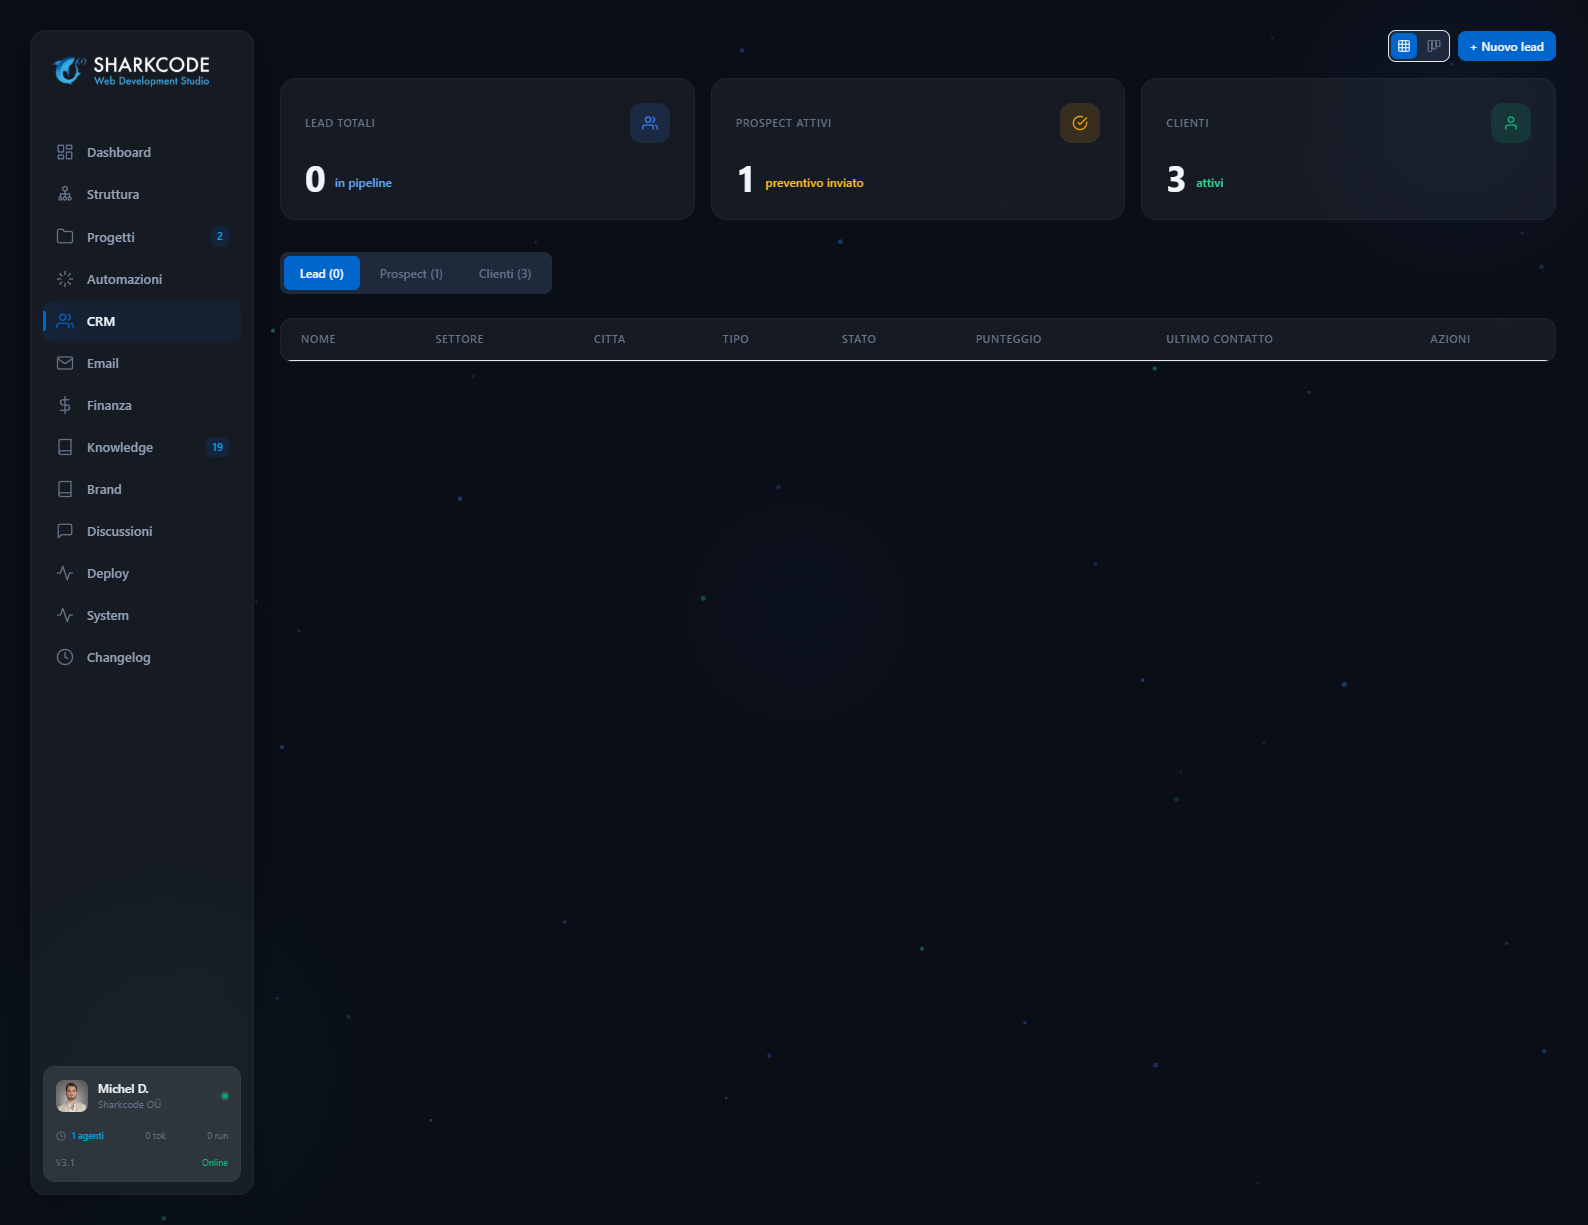
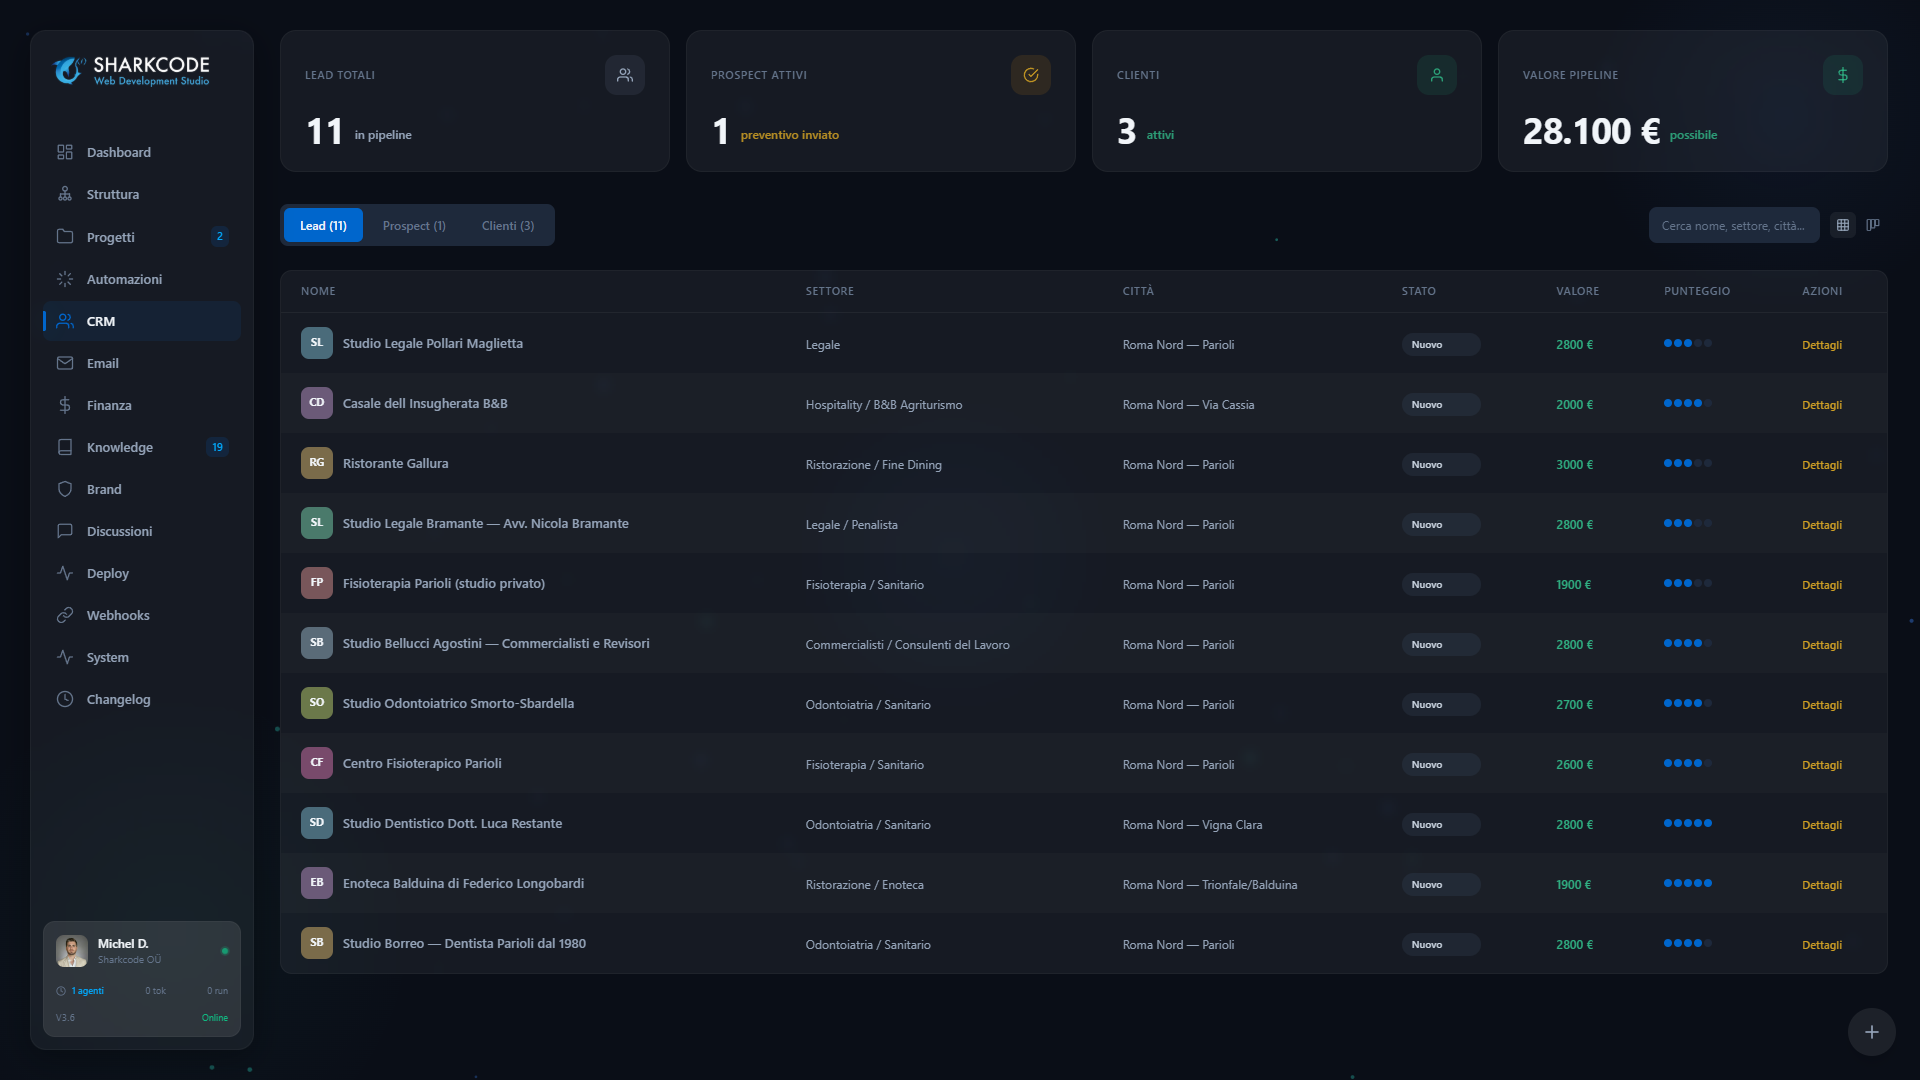
chore: update screenshots and README for v3.6 — CRM-driven sales pipeline
Updated all dashboard screenshots, added CRM and Automazioni views.
README reflects 63 phases, 676+ commits, 27,400 LOC, 120+ API routes,
11 qualified leads (28,100 EUR pipeline), CRM state machine, per-lead proposals.

diff --git a/README.md b/README.md
@@ -9,12 +9,13 @@ Sharkcode OS is the command center for [Sharkcode OU](https://sharkcodestudio.co
 The system orchestrates specialized AI agents through a pipeline with explicit checkpoints and human approval gates. Michel says a client name, the system runs research, competitor analysis, SEO, design, legal, development — stopping at each phase for review. Agents communicate with each other through discussion threads. Everything is logged, costed, and visible in a real-time dashboard.
 
 **This is not vaporware.** It manages active client projects with real revenue:
-- 4 clients in pipeline (2 active, 1 prospect, 1 e-commerce)
-- 56+ completed development phases across 640+ commits
+- 4 clients in pipeline (2 active, 1 prospect, 1 e-commerce) + 11 qualified leads (28,100 EUR pipeline)
+- 63+ completed development phases across 676+ commits
 - Full 9-phase pipeline: lead → proposal → research → strategy → design → legal → build → review → audit
+- CRM-driven sales lifecycle: 7-state machine, per-lead proposals, unified timeline, "cosa fare oggi"
 - Source audit blocks fabricated output (FAKE verdict triggers automatic retry)
 - End-to-end tested on production client work
-- Deep audited with 27 findings identified and 5 critical fixes applied
+- Deep audited with 27 findings identified and all critical fixes applied
 
 ## Screenshots (real dashboard, not mockups)
 
@@ -26,9 +27,13 @@ The system orchestrates specialized AI agents through a pipeline with explicit c
 |:--------:|:--------------:|
 | ![Projects](https://raw.githubusercontent.com/Michel9329/sharkcode-os-demo/main/03-progetti.png) | ![Knowledge](https://raw.githubusercontent.com/Michel9329/sharkcode-os-demo/main/05-knowledge.png) |
 
-| Brand Identity | System Health |
-|:--------------:|:-------------:|
-| ![Brand](https://raw.githubusercontent.com/Michel9329/sharkcode-os-demo/main/06-brand.png) | ![System](https://raw.githubusercontent.com/Michel9329/sharkcode-os-demo/main/07-system.png) |
+| CRM (11 leads, 28.100 EUR) | Brand Identity |
+|:--------------------------:|:--------------:|
+| ![CRM](https://raw.githubusercontent.com/Michel9329/sharkcode-os-demo/main/04-crm.png) | ![Brand](https://raw.githubusercontent.com/Michel9329/sharkcode-os-demo/main/06-brand.png) |
+
+| System Health | Automations |
+|:-------------:|:-----------:|
+| ![System](https://raw.githubusercontent.com/Michel9329/sharkcode-os-demo/main/07-system.png) | ![Automazioni](https://raw.githubusercontent.com/Michel9329/sharkcode-os-demo/main/08-automazioni.png) |
 
 ## Architecture
 
@@ -58,7 +63,7 @@ The system orchestrates specialized AI agents through a pipeline with explicit c
 │  16 Agent  │ │ MCP Server │  │  Dashboard Server │
 │  Prompts   │ │ (10 tools) │  │  (Bun + SQLite)   │
 │            │ │            │  │                    │
-│ .claude/   │ │ sharkcode  │  │  101 API routes     │
+│ .claude/   │ │ sharkcode  │  │  120+ API routes    │
 │ agents/    │ │ -core      │  │  WebSocket live     │
 │            │ │            │  │  Google Calendar    │
 │ Each has:  │ │ Per-team   │  │  Email IMAP/SMTP   │
@@ -156,7 +161,7 @@ Each phase produces artifacts in `.planning/context/{clientId}/{team}/`. Teams r
 | **Project Detail** | Single project deep dive: timeline, discussions, artifacts |
 | **Activity** | Real-time event stream from all agents (WebSocket) |
 | **Discussion** | Thread viewer — agent-to-agent conversations per client/phase |
-| **CRM** | Client pipeline: lead → prospect → client, contact history, revenue |
+| **CRM** | 7-state lead lifecycle, kanban drag-drop, per-lead proposals, unified timeline, "cosa fare oggi", 11 qualified leads |
 | **Finance** | Cost tracking, invoices, expenses, revenue per client |
 | **Email** | Inbox sync (IMAP), search, compose, reply |
 | **Knowledge** | Full-text search across 31 research books |
@@ -165,7 +170,7 @@ Each phase produces artifacts in `.planning/context/{clientId}/{team}/`. Teams r
 | **System Health** | Server uptime, DB stats, WebSocket connections, staleness detection |
 | **Deploy** | Cloudflare Pages: deployment history, status, trigger redeploy |
 | **Changelog** | Release notes per phase |
-| **Automations** | Active pipelines with live status, checkpoint approve/reject with output preview, phase history |
+| **Automations** | Active pipelines with live status, checkpoint approve/reject with output preview, pipeline type/lead labels, archive history |
 
 The design is glassmorphism dark theme with semi-transparent cards, blur effects, and subtle glow animations. Premium look, not Material UI defaults.
 
@@ -287,7 +292,8 @@ sharkcode/
 │   │       │       │   └── ...            # 6 more modules
 │   │       │       ├── ws-state.ts        # Shared WebSocket state
 │   │       │       ├── middleware.ts       # CORS + rate limiting
-│   │       │       ├── db.ts              # SQLite schema + WAL
+│   │       │       ├── db.ts              # SQLite schema + WAL + CRM tables
+│   │       │       ├── lead-state-machine.ts  # 7-state CRM lifecycle
 │   │       │       ├── google-calendar.ts  # OAuth2 + sync
 │   │       │       ├── email-client.ts     # IMAP + SMTP
 │   │       │       ├── cloudflare-api.ts   # Deploy status + triggers
@@ -300,7 +306,8 @@ sharkcode/
 │   │               ├── composables/ # 17 composables
 │   │               └── styles/      # Dark glassmorphism theme
 │   ├── orchestrator/           # Pipeline engine
-│   │   ├── run-pipeline.ts     # Main runner
+│   │   ├── run-pipeline.ts     # Main runner (--lead flag for per-lead proposals)
+│   │   ├── lead-utils.ts       # Lead extraction, brief generation, pre-launch validation
 │   │   ├── interview.ts        # Pre-pipeline client interview
 │   │   ├── config.json         # Timeouts, pricing, allowlists, book mappings, interview questions
 │   │   ├── discussion.ts       # Thread management
@@ -325,23 +332,23 @@ sharkcode/
 
 | Metric | Value |
 |--------|-------|
-| Total commits | 635+ |
-| Development phases completed | 55 |
-| Lines of code (server) | ~4,300 (modularized into 11 route modules) |
-| Lines of code (client) | ~15,500 |
-| Lines of code (orchestrator) | ~4,800 |
+| Total commits | 676+ |
+| Development phases completed | 63 |
+| Lines of code (server) | ~5,400 (modularized into 15 route modules) |
+| Lines of code (client) | ~15,800 |
+| Lines of code (orchestrator) | ~5,600 |
 | Lines of code (MCP) | ~560 |
-| **Total LOC** | **~25,000** |
+| **Total LOC** | **~27,400** |
 | Agent definitions | 16 |
 | Skill definitions | 47 |
 | Research books | 31 |
-| Dashboard views | 16 |
-| Vue composables | 17 |
-| Vue components | 60+ |
-| API routes | 101 (documented in API.md) |
+| Dashboard views | 15 |
+| Vue composables | 16 |
+| Vue components | 30+ |
+| API routes | 120+ |
 | Test suite | 24 tests (bun:test) for critical paths |
 | MCP tools | 10 |
-| Active client projects | 4 |
+| Active client projects | 4 + 11 qualified leads |
 
 ## Setup
 
@@ -407,9 +414,10 @@ bun run tools/orchestrator/run-pipeline.ts {clientId} {phase}
 - **Phase 52:** Wedding Templates integration (personal project)
 
 ### Recently completed
-- **v3.2** — n8n webhook integration (bidirectional HMAC-SHA256), calendar event creation + Google Meet links
-- **v3.3** — Pre-pipeline client interview system, server modularization (2883→168 LOC), 24-test suite, API.md with 101 endpoints
+- **v3.6** — CRM-driven sales pipeline: 7-state machine, per-lead proposals, unified timeline, "cosa fare oggi", pipeline labeling, 11 qualified leads (28,100 EUR)
+- **v3.5** — Full pipeline E2E: 9-phase lead-to-audit, source audit FAKE blocking, Tavily MCP, pricing dinamico, template email HTML
 - **v3.4** — Deep project audit (27 findings), critical fixes (config integrity, email auth, cross-boundary imports)
+- **v3.3** — Pre-pipeline client interview system, server modularization (2883→168 LOC), 24-test suite
 
 ## Example: full pipeline run
 
